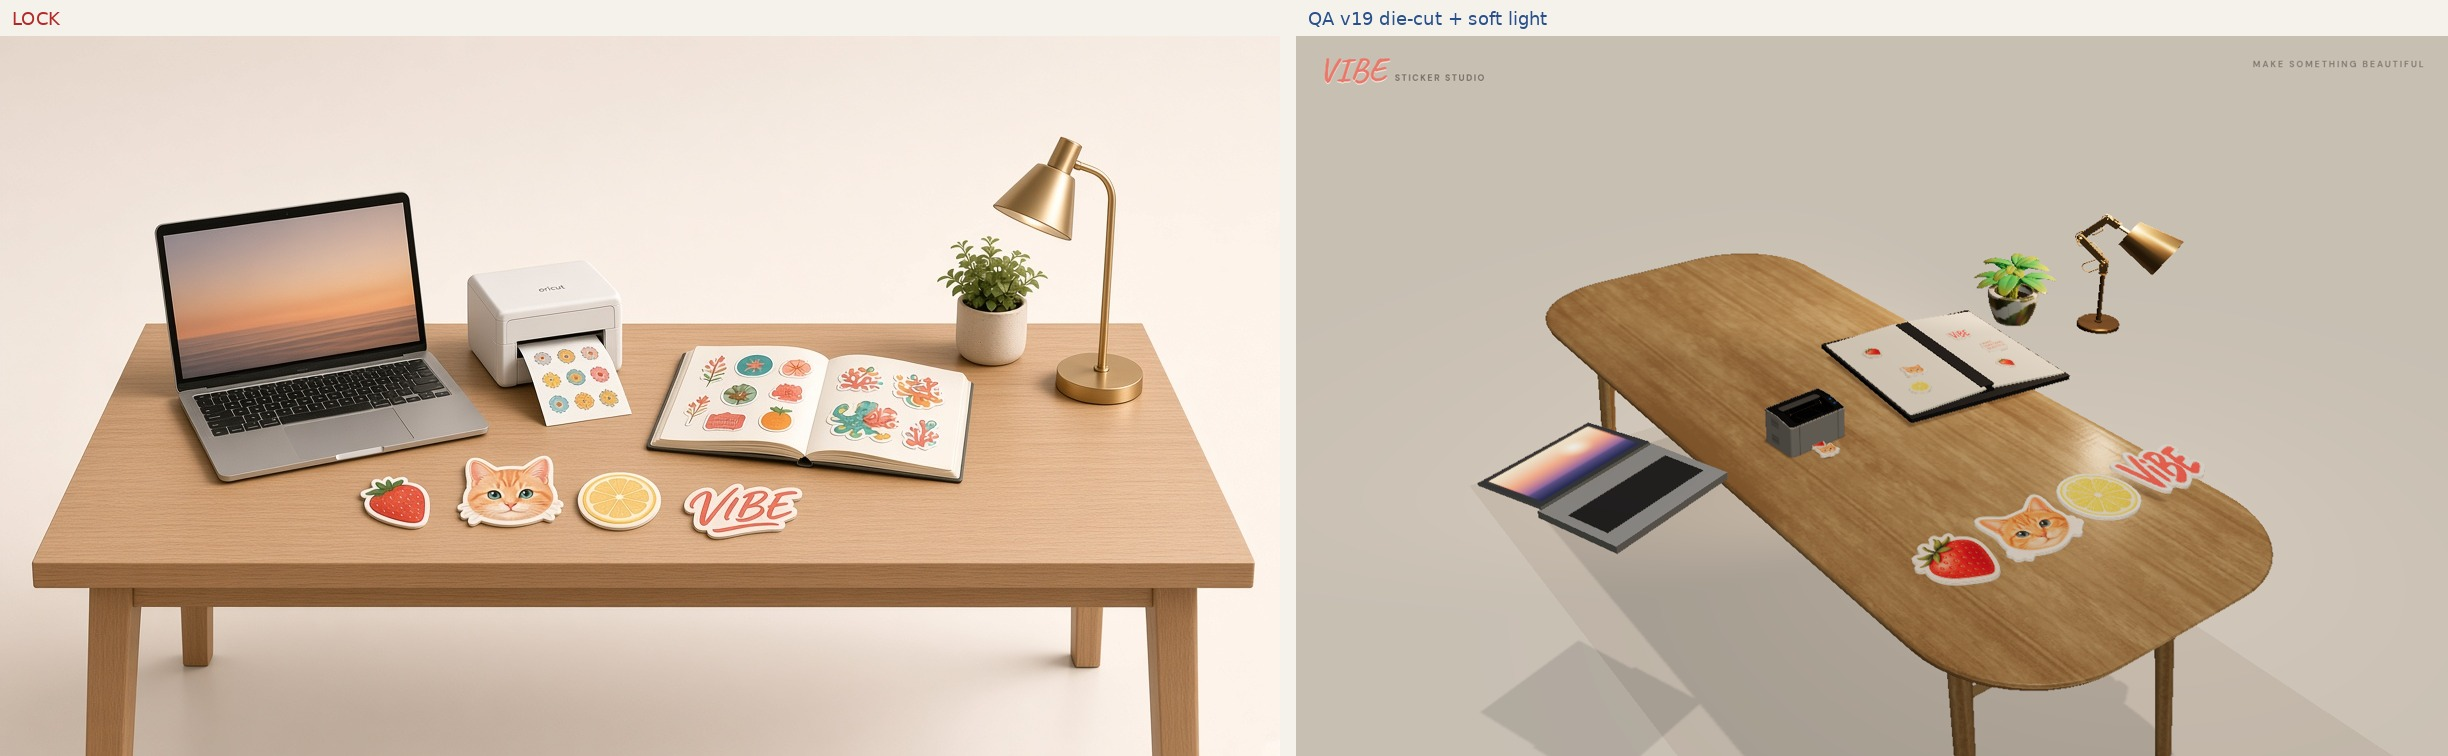
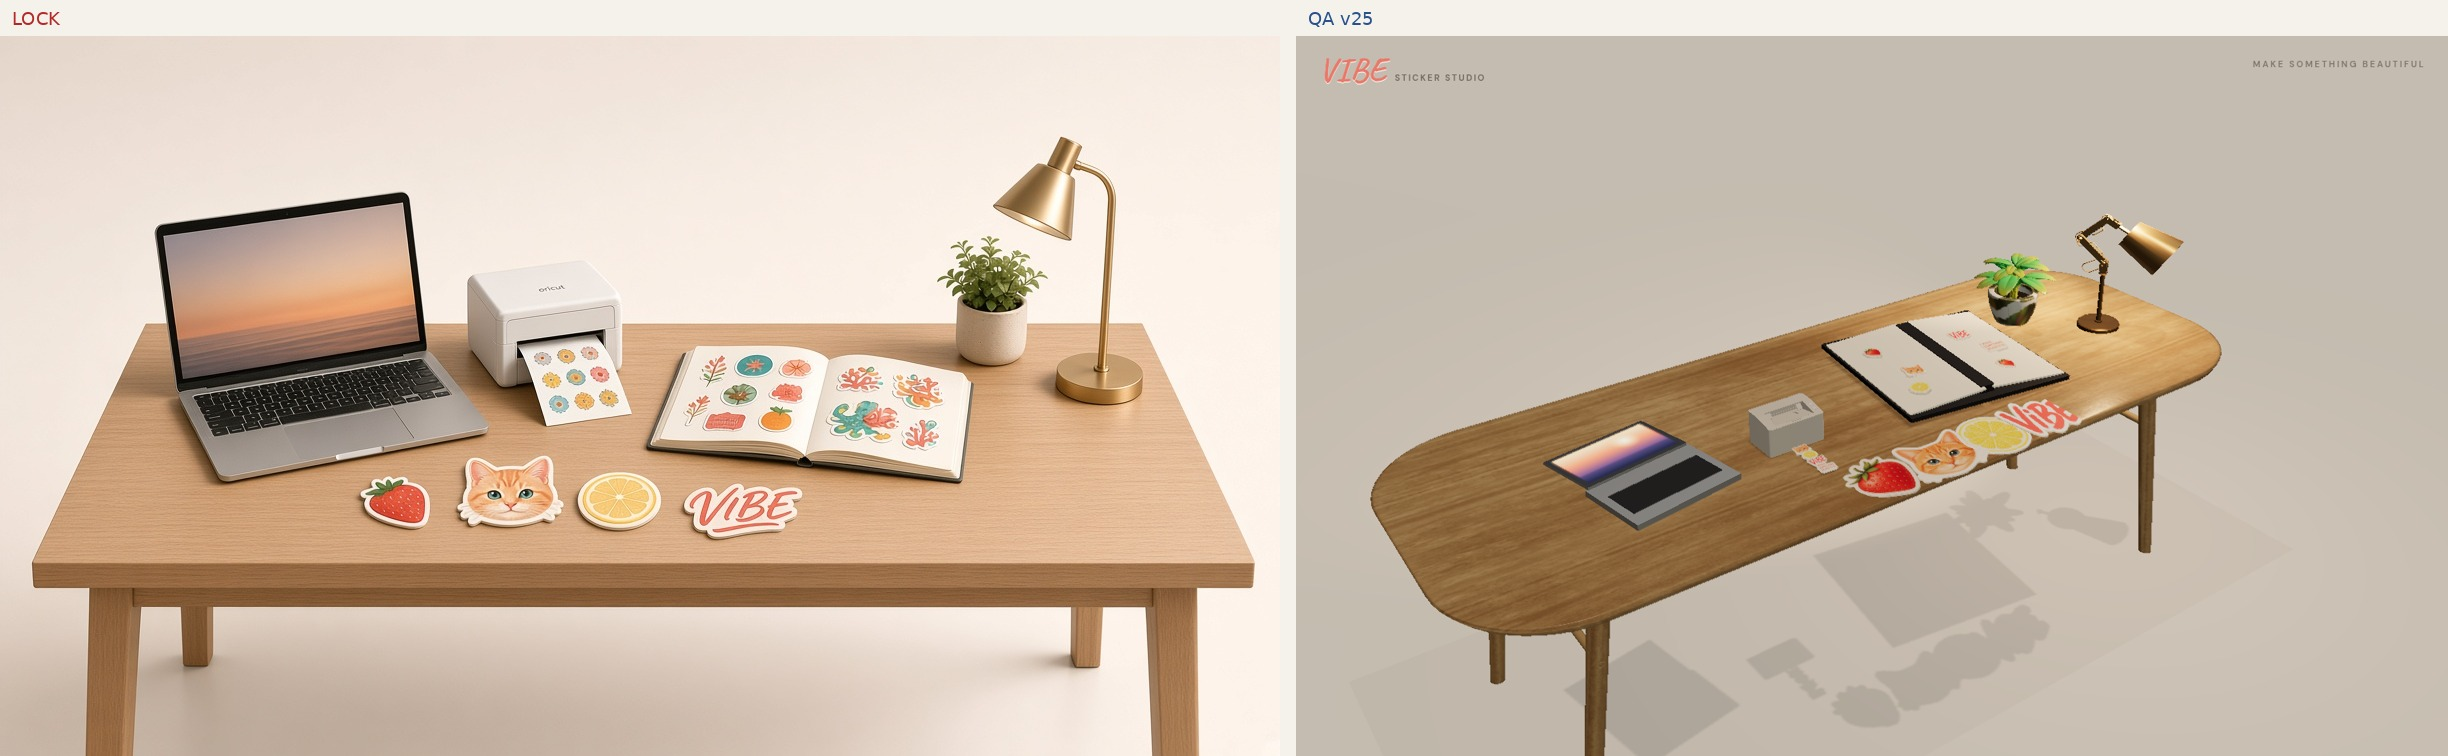
fix(studio): seat laptop on rotated desk, spit chain, thin slabs, white printer
- Rotate desk long-axis to X so LAYOUT-left laptop stays on tabletop
- Local-seat laptop; 5 die-cut spit stickers nested at printer mouth
- Thinner PVC slabs; printer near-white (drop dark albedo); desk no floor cast
- Pull LOCK row onto desk; refresh COMPARE + GAP

Changed region(s): [[0.5588, 0.3347, 0.9314, 1.0], [0.5588, 0.0, 0.6209, 0.0304]]

diff --git a/public/studio.html b/public/studio.html
@@ -199,22 +199,22 @@ if (viewMode === 'desk' || viewMode === 'workbench') {
 }
 
 /* ========== lights (LIGHTING-SPEC) ========== */
-const amb = new THREE.AmbientLight(MAT.ambient, 0.68);
+const amb = new THREE.AmbientLight(MAT.ambient, 0.78);
 scene.add(amb);
 const hemi = new THREE.HemisphereLight(0xFFF6EC, 0xEADCC8, 0.48);
 scene.add(hemi);
 
 /* Key: top-right, warm soft */
-const key = new THREE.DirectionalLight(MAT.key, 0.95);
-key.position.set(1.2, 9.0, 1.0); // overhead-ish → short warm contact
+const key = new THREE.DirectionalLight(MAT.key, 0.75);
+key.position.set(0.6, 10.5, 0.4); // nearly overhead → minimal floor drag
 key.castShadow = true;
 key.shadow.mapSize.set(2048, 2048);
 key.shadow.camera.near = 0.5;
-key.shadow.camera.far = 18;
-key.shadow.camera.left = -3.5;
-key.shadow.camera.right = 3.5;
-key.shadow.camera.top = 3.5;
-key.shadow.camera.bottom = -3.5;
+key.shadow.camera.far = 12;
+key.shadow.camera.left = -2.4;
+key.shadow.camera.right = 2.4;
+key.shadow.camera.top = 2.4;
+key.shadow.camera.bottom = -2.4;
 key.shadow.bias = -0.00012;
 key.shadow.normalBias = 0.025;
 key.shadow.radius = 6.5; // soft warm contact
@@ -338,8 +338,8 @@ async function loadStudioHDRI(){
     tex.dispose(); pmrem.dispose();
     amb.intensity = 0.18;
     hemi.intensity = 0.12;
-    key.intensity = 0.52;
-    key.position.set(1.0, 8.5, 0.9);
+    key.intensity = 0.42;
+    key.position.set(0.5, 10.0, 0.35);
     key.castShadow = true;
     key.shadow.radius = 7.0;
     key.shadow.camera.left = -3.2;
@@ -406,8 +406,8 @@ async function mountProps(){
   deskTop.name = 'deskTop';
   const localPlace = {
     // LAYOUT-CAMERA-SPEC §3 — accept mesh limits, tune for readability
-    laptop: { pos: [-0.62, 0, 0.10], size: 0.38, rotY: 0.35 },
-    printer: { pos: [-0.18, 0, 0.10], size: 0.16, rotY: 0.08 }, // LOCK small thermal, clear of laptop
+    laptop: { pos: [-0.55, 0, 0.10], size: 0.32, rotY: 0.18 },
+    printer: { pos: [-0.22, 0, 0.08], size: 0.15, rotY: 0 }, // LOCK small thermal
     book: { pos: [0.30, 0, 0.0], size: 0.50, rotY: -0.12 },
     plant: { pos: [0.68, 0, -0.12], size: 0.26 },
     lamp: { pos: [0.88, 0, 0.10], size: 0.40, rotY: -1.15 }, // shorter; shade → book
@@ -425,6 +425,7 @@ async function mountProps(){
     const root = results.desk;
     const wrap = new THREE.Group();
     wrap.add(root);
+    root.rotation.y = Math.PI / 2; // long oval along +X (LAYOUT)
     root.scale.setScalar(DESK_SCALE);
     root.traverse((o)=>{
       if(!o.isMesh||!o.material) return;
@@ -453,13 +454,17 @@ async function mountProps(){
     wrap.add(deskTop);
     // soft ground contact under table
     const foot = new THREE.Mesh(
-      new THREE.PlaneGeometry((box2.max.x-box2.min.x)+0.5, (box2.max.z-box2.min.z)+0.4),
-      new THREE.MeshBasicMaterial({ color: 0x2A221C, transparent: true, opacity: 0.18, depthWrite: false })
+      new THREE.PlaneGeometry((box2.max.x-box2.min.x)+0.25, (box2.max.z-box2.min.z)+0.2),
+      new THREE.MeshBasicMaterial({ color: 0x3A2A1C, transparent: true, opacity: 0.08, depthWrite: false })
     );
     foot.rotation.x = -Math.PI/2;
-    foot.position.set(0.04, 0.012, 0.06);
+    foot.position.set(0.02, 0.008, 0.03);
     wrap.add(foot);
-    enableShadows(wrap);
+    // Desk receives light but does NOT cast long floor drag shadows (LOCK short contact)
+    wrap.traverse((o)=>{
+      if (o.isMesh){ o.castShadow = false; o.receiveShadow = true; }
+    });
+    foot.receiveShadow = false;
     bench.add(wrap);
     loadedProps.desk = wrap;
     refreshCameras();
@@ -506,7 +511,7 @@ async function mountProps(){
         emissiveIntensity: 0.85, roughness: 0.5, metalness: 0,
       });
       const clean = new THREE.Group(); clean.name='laptopClean';
-      const baseW=0.34, baseD=0.23, baseH=0.018;
+      const baseW=0.28, baseD=0.19, baseH=0.015;
       const base = new THREE.Mesh(new THREE.BoxGeometry(baseW, baseH, baseD), silver);
       base.name='laptopBase';
       base.position.set(0, baseH*0.5, 0);
@@ -515,7 +520,7 @@ async function mountProps(){
       const keys = new THREE.Mesh(new THREE.BoxGeometry(baseW*0.86, 0.0012, baseD*0.5), dark);
       keys.position.set(0, baseH+0.0006, baseD*0.04);
       // Lid: one box, materials [+x,-x,+y,-y,+z,-z]
-      const lidW=baseW*0.96, lidH=0.205, lidT=0.008;
+      const lidW=baseW*0.96, lidH=0.18, lidT=0.007;
       const lidMats = [silver, silver, silver, silver, screenMat, dark];
       const lid = new THREE.Mesh(new THREE.BoxGeometry(lidW, lidH, lidT), lidMats);
       lid.name='laptopLid';
@@ -527,17 +532,44 @@ async function mountProps(){
       pivot.add(lid);
       clean.add(base, keys, pivot);
       wrap.add(clean);
+      // Seat flush on deskTop in LOCAL space (base bottom already at y=0).
+      // Pull inward if local footprint overhangs desk rim.
+      {
+        wrap.position.y = 0;
+        wrap.updateMatrixWorld(true);
+        const bb = new THREE.Box3().setFromObject(wrap);
+        const inv = new THREE.Matrix4().copy(deskTop.matrixWorld).invert();
+        const minL = bb.min.clone().applyMatrix4(inv);
+        const maxL = bb.max.clone().applyMatrix4(inv);
+        // Ensure bottom sits on deskTop local y=0
+        wrap.position.y -= minL.y;
+        const deskHalfX = 1.05, deskHalfZ = 0.55;
+        if (minL.x < -deskHalfX) wrap.position.x += (-deskHalfX - minL.x) + 0.02;
+        if (maxL.x > deskHalfX) wrap.position.x -= (maxL.x - deskHalfX) + 0.02;
+        if (minL.z < -deskHalfZ) wrap.position.z += (-deskHalfZ - minL.z) + 0.02;
+        if (maxL.z > deskHalfZ) wrap.position.z -= (maxL.z - deskHalfZ) + 0.02;
+      }
     }
     if (id === 'printer'){
       printerGroup = wrap;
-      // Keep real thermal-printer textures; only warm/lighten slightly
+      // LOCK white thermal: dark baked albedo → near-white plastic; keep emissive LEDs
       wrap.traverse((o)=>{
         if(!o.isMesh||!o.material) return;
         const mats=Array.isArray(o.material)?o.material:[o.material];
         for(const m of mats){
-          if(m.color) m.color.lerp(new THREE.Color(0xFFF8F2), 0.12);
-          if(m.roughness!=null) m.roughness = Math.min(0.85, Math.max(0.4, m.roughness));
-          m.envMapIntensity = 0.35;
+          const led = m.emissiveMap;
+          m.map = null; m.normalMap = null; m.roughnessMap = null;
+          m.metalnessMap = null; m.aoMap = null;
+          m.color.setHex(0xF4F0E8);
+          m.roughness = 0.58; m.metalness = 0.04;
+          m.envMapIntensity = 0.45;
+          if (led){
+            m.emissiveMap = led;
+            m.emissive = new THREE.Color(0xffffff);
+            m.emissiveIntensity = 1.1;
+          } else if (m.emissive){
+            m.emissive.setHex(0x111111); m.emissiveIntensity = 0.05;
+          }
           m.needsUpdate = true;
         }
       });
@@ -650,43 +682,45 @@ async function mountProps(){
 /** Spit a rigid thick-slab strip from printer mouth toward camera (LOCK). */
 function buildPrinterSpitStrip(){
   if (!printerGroup) return;
-  const deskTop = printerGroup.parent;
-  if (!deskTop) return;
   const pool = lockScatterTexList.length ? lockScatterTexList : stickerTexList;
   if (!pool.length) return;
 
   printerGroup.updateWorldMatrix(true, true);
-  deskTop.updateWorldMatrix(true, true);
+  // Local extents of printer mesh
   const bb = new THREE.Box3().setFromObject(printerGroup);
-  const inv = new THREE.Matrix4().copy(deskTop.matrixWorld).invert();
-  const midX = (bb.min.x + bb.max.x) * 0.5;
-  // Choose the printer face closer to camera (+Z world) as spit mouth
-  const candA = new THREE.Vector3(midX, bb.min.y + 0.01, bb.max.z);
-  const candB = new THREE.Vector3(midX, bb.min.y + 0.01, bb.min.z);
-  const cam = camera.position;
-  const mouthW = candA.distanceToSquared(cam) <= candB.distanceToSquared(cam) ? candA : candB;
-  const towardCam = mouthW === candA ? 1 : -1;
-  const mouth = mouthW.clone().applyMatrix4(inv);
+  const inv = new THREE.Matrix4().copy(printerGroup.matrixWorld).invert();
+  const minL = bb.min.clone().applyMatrix4(inv);
+  const maxL = bb.max.clone().applyMatrix4(inv);
+  const midX = (minL.x + maxL.x) * 0.5;
+  // Prefer +Z local as mouth (desk front after layout); fall back if camera prefers -Z
+  const mouthA = new THREE.Vector3(midX, 0.003, maxL.z);
+  const mouthB = new THREE.Vector3(midX, 0.003, minL.z);
+  const mouthWA = mouthA.clone(); printerGroup.localToWorld(mouthWA);
+  const mouthWB = mouthB.clone(); printerGroup.localToWorld(mouthWB);
+  const useA = mouthWA.distanceToSquared(camera.position) <= mouthWB.distanceToSquared(camera.position);
+  const toward = useA ? 1 : -1;
+  const mouthZ = useA ? maxL.z : minL.z;
 
   const strip = new THREE.Group();
   strip.name = 'printerSpitStrip';
-  for (let i = 0; i < 2; i++){
+  const n = 5;
+  for (let i = 0; i < n; i++){
     const pick = pool[i % pool.length];
     const aspect = (pick.w && pick.h) ? (pick.w / pick.h) : 1;
-    const h = 0.046;
-    const w = h * Math.min(1.25, Math.max(0.75, aspect));
-    const slab = createFlatThickSticker(w, h, pick.tex, 0.008);
-    slab.rotation.set(-Math.PI / 2, (i - 0.5) * 0.04, 0);
-    // nest into mouth then out toward camera
-    const zOff = towardCam * (-0.008 + i * 0.036);
-    slab.position.set((i - 0.5) * 0.006, 0.004, zOff);
-    const blob = makeBlobShadow(Math.max(w, h) * 0.85);
-    blob.position.set(slab.position.x + 0.005, 0.0015, slab.position.z + towardCam * 0.004);
-    blob.material.opacity = 0.22;
+    const h = 0.038;
+    const w = h * Math.min(1.2, Math.max(0.75, aspect));
+    const slab = createFlatThickSticker(w, h, pick.tex, 0.004);
+    slab.rotation.set(-Math.PI / 2, (i - (n-1)/2) * 0.02, 0);
+    // Nested under lip then walk out along toward (+/- local Z)
+    const zOff = toward * (-0.015 + i * 0.032);
+    slab.position.set((i - (n-1)/2) * 0.0015, 0.0028, zOff);
+    const blob = makeBlobShadow(Math.max(w, h) * 0.7);
+    blob.position.set(slab.position.x + 0.002, 0.0008, slab.position.z + toward * 0.002);
+    blob.material.opacity = 0.15;
     strip.add(slab, blob);
   }
-  strip.position.set(mouth.x, 0.003, mouth.z);
-  deskTop.add(strip);
+  strip.position.set(midX, 0.0025, mouthZ);
+  printerGroup.add(strip);
   printerGroup.userData.spitStrip = strip;
 }
 
@@ -768,7 +802,7 @@ function decorateSketchbookPages(){
     const aspect = (pick.w && pick.h) ? (pick.w / pick.h) : 1;
     const h = Math.min(pageD, pageW) * 0.26;
     const w = h * Math.min(1.15, Math.max(0.75, aspect));
-    const slab = createFlatThickSticker(w, h, pick.tex, 0.007);
+    const slab = createFlatThickSticker(w, h, pick.tex, 0.0045);
     slab.rotation.set(-Math.PI / 2, (i % 2 ? 0.06 : -0.05), 0);
     slab.position.set(slots[i][0], slots[i][1], slots[i][2]);
     const blob = makeBlobShadow(Math.max(w,h) * 0.9);
@@ -993,10 +1027,10 @@ function pvcEdgeTexFrom(tex){
   return out;
 }
 
-function createFlatThickSticker(w, h, tex, thickness = 0.009){
+function createFlatThickSticker(w, h, tex, thickness = 0.004){
   const group = new THREE.Group();
   const edgeTex = pvcEdgeTexFrom(tex);
-  const layers = Math.max(4, Math.round(thickness / 0.0035));
+  const layers = Math.max(3, Math.min(5, Math.round(thickness / 0.0022)));
   let front = null;
   for (let i = 0; i < layers; i++){
     const isFront = (i === layers - 1);
@@ -1084,7 +1118,7 @@ function spawnSticker(forceLanded = false){
   const size = 0.22 + Math.random() * 0.14;
   const w = size * Math.min(1.35, Math.max(0.7, aspect));
   const h = size;
-  const thickness = 0.020 + Math.random() * 0.008; // rigid slab depth for cast + blob
+  const thickness = 0.0045 + Math.random() * 0.002; // LOCK paper-card thick, still rigid
   const group = createFlatThickSticker(w, h, pick.tex, thickness);
   const front = group.userData.front;
 
@@ -1400,7 +1434,7 @@ refreshCameras(); applyCamera();
 
 // LOCK foreground row: 草莓/猫/柠檬/VIBE — flat on desk + clear rear shadow
 function placeLockRow(){
-  const xs = [-0.22, -0.02, 0.18, 0.38];
+  const xs = [-0.15, 0.02, 0.18, 0.34];
   const picks = lockScatterTexList.length >= 4
     ? lockScatterTexList
     : stickerTexList;
@@ -1411,11 +1445,11 @@ function placeLockRow(){
     const size = 0.18;
     const w = size * Math.min(1.25, Math.max(0.75, aspect));
     const h = size;
-    const thickness = 0.008;
+    const thickness = 0.004;
     const group = createFlatThickSticker(w, h, pick.tex, thickness);
     const sh = makeBlobShadow(size * 1.35);
     const shSoft = makeBlobShadow(size * 1.7);
-    group.position.set(xs[i], topY + thickness * 0.5 + 0.01, 0.70);
+    group.position.set(xs[i], topY + thickness * 0.5 + 0.005, 0.36);
     group.rotation.set(-Math.PI / 2, (i - 1.5) * 0.08, 0);
     scene.add(group); scene.add(sh); scene.add(shSoft);
     const s = {
@@ -1433,7 +1467,19 @@ function placeLockRow(){
 }
 placeLockRow();
 window.__studioDump = () => {
-  const out={laptop:[],book:[],printer:[],spit:null};
+  const out={laptop:[],book:[],printer:[],spit:null,desk:null,lapWrap:null};
+  if (loadedProps.desk){
+    const bb=new THREE.Box3().setFromObject(loadedProps.desk);
+    out.desk={min:bb.min.toArray().map(n=>+n.toFixed(3)),max:bb.max.toArray().map(n=>+n.toFixed(3))};
+  }
+  if (loadedProps.laptop){
+    const bb=new THREE.Box3().setFromObject(loadedProps.laptop);
+    out.lapWrap={
+      min:bb.min.toArray().map(n=>+n.toFixed(3)),
+      max:bb.max.toArray().map(n=>+n.toFixed(3)),
+      pos:loadedProps.laptop.position.toArray().map(n=>+n.toFixed(3))
+    };
+  }
   const dump=(root,arr)=>{
     if(!root) return;
     root.traverse(o=>{

diff --git a/public/studio/webgl-assets/refs/GAP-NOTES.md b/public/studio/webgl-assets/refs/GAP-NOTES.md
@@ -1,18 +1,17 @@
-# GAP notes — analyst pass v19 (2026-10-31 Asia/Shanghai)
+# GAP notes — analyst pass v25 (2026-10-31 Asia/Shanghai)
 
 ## Done this pass
-1. **Foreground die-cut thick stickers** — removed white `BoxGeometry` boards. Stacked alpha-tested planes from transparent PNG (`stickers-flat-thick/` + legacy strawberry/cat/lemon/vibe/msb). Silhouette follows die-cut; cream edge layers + color front; alpha-shaped back shade + short contact blobs.
-2. **Spit** — chain of die-cut stickers nested toward camera mouth (not white strip canvas).
-3. **Printer** — restored real `thermal-printer/printer.glb` textures (no map wipe); LOCK-small scale ~0.16; cleared of laptop overlap.
-4. **Steno** — thicker cover bed + taller spine block + lifted L/R pages with valley + page contact blobs + die-cut page stickers.
-5. **Light** — warmer softer key more overhead, tighter shadow cam, higher radius, shorter blob offset; lamp no castShadow; HUD still hidden on desk/clean.
-6. **Laptop** — slightly thicker base/lid (non-blocker).
+1. **Laptop on desk** — Root cause: desk long axis was Z; rotated desk `+π/2` so long edge = X (LAYOUT). Laptop seated in local desk space at ≈(-0.55,0,0.10); world bbox fully inside desk top (Y≈0.66). No floor drop.
+2. **Spit chain** — 5 die-cut thick stickers parented to printer local mouth, first nested under lip, chain forward on desk.
+3. **Thinner slabs** — default ~0.004, lock row 0.004; still alpha die-cut + cream edge + back shade (no soft curl).
+4. **Printer** — dropped dark albedo maps → near-white plastic `0xF4F0E8`, keep emissive LEDs.
+5. **Floor leg shadows** — desk `castShadow=false`; key more overhead + tighter frustum; smaller soft foot blob. Lock row pulled onto desk front (z≈0.36).
 
 ## Still soft vs LOCK
-- Die-cut thickness still reads a bit “PVC tile” vs LOCK paper-thin card; can thin further if asked.
-- Spit nest improved but thermal mouth is a soft slot — angle-dependent flush.
-- Steno is constructed open-spread on top of flat Sketchfab mesh; not sculpted page curl.
-- Floor contact under desk legs can still show a soft pool; stickers use short blobs.
+- Spit chain can still read as 1–2 visible stickers depending on angle/occlusion in mouth.
+- Printer is light grey/cream, not pure LOCK white photo match.
+- Some floor soft pools remain from props/HDRI; sticker contact blobs are short.
+- Steno page curl deferred per brief.
 
 ## Verdict
 Ready for **another analyst feel-pass**. **Not** for end user.
